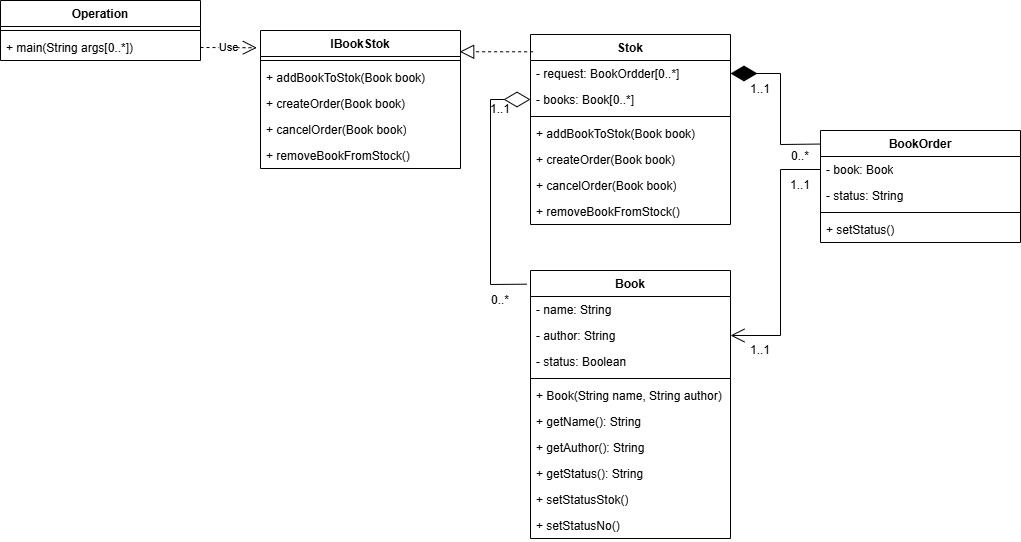
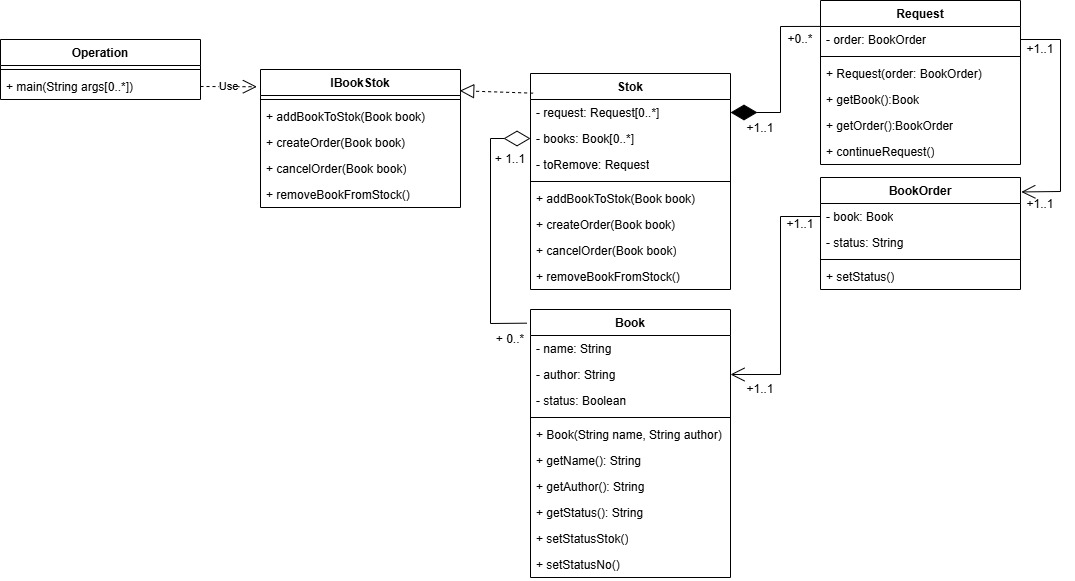
Добавление запросов в 4 задание

diff --git a/task-3/4/Stok.java b/task-3/4/Stok.java
@@ -2,33 +2,36 @@ import java.util.*;
 
 public class Stok implements  IBookStok {
     private List<Book> books = new ArrayList<>();
-    private List<BookOrder> request = new ArrayList<>();
-    
+    private List<Request> requests = new ArrayList<>();
+    private  Request toRemove = null;
     
     @Override
     public void addBookToStock(Book book) {
         books.add(book);
         book.setStatusStok();
+             
+        toRemove=null;
         
-        
-        List<BookOrder> toRemove = new ArrayList<>();
-        
-        for (BookOrder order : request) {
-            if (order.getBook().equals(book) && order.getStatus().equals("Новый")) {
-                order.setStatus("Выполнен");
+        for (Request request : requests) {
+            if (request.getBook().equals(book)) {
+                request.ContinueRequest();
                 removeBookFromStock(book);
-                System.out.println("Выдана книга по запросу: " + book.getName());
-                toRemove.add(order); 
+                toRemove = request; 
                 break;
             }
         }
-        
-        request.removeAll(toRemove);
+        if(toRemove != null) {  requests.remove(toRemove);}
+        else {
+            
+        }
     }
     
     @Override
     public void removeBookFromStock(Book book) {
-        book.setStatusNo();
+         books.remove(book);
+         if (!books.contains(book)) {
+             book.setStatusNo();
+         }
     }
     
     @Override
@@ -36,8 +39,9 @@ public class Stok implements  IBookStok {
         BookOrder order = new BookOrder(book);
         
         if (book.getStatus().equals("Отсутствует")) {
-            request.add(order);
-            System.out.println("Создан запрос на книгу: " + book.getName());
+            Request request = new Request(order);
+            requests.add(request);
+           
         } else {
             order.setStatus("Выполнен");
             System.out.println("Выдана книга: " + book.getName());
@@ -48,7 +52,7 @@ public class Stok implements  IBookStok {
     @Override
    public void cancelOrder(BookOrder order) {
         order.setStatus("Отменен");
-        request.remove(order); 
+        requests.removeIf(request -> request.getOrder().equals(order));
     }
     
 }

diff --git a/task-3/4/operation.java b/task-3/4/operation.java
@@ -4,16 +4,16 @@ public class Operation {
         
         Book book1 = new Book("Война и мир", "Л.Н.Толстой");
         Book book2 = new Book("Мастер и Маргарита", "М.А.Булгаков");
+        
         shop.addBookToStock(book1);
         shop.addBookToStock(book2);
+        shop.addBookToStock(book1);
         
-        shop.createOrder(book1);
-               
         shop.createOrder(book1); 
-         shop.createOrder(book1);
-          shop.createOrder(book1);
-         shop.addBookToStock(book1);
-         shop.removeBookFromStock(book2);
-         shop.createOrder(book2);
+        shop.createOrder(book1);
+        shop.createOrder(book1);
+        shop.addBookToStock(book1);
+        shop.removeBookFromStock(book2);
+        shop.createOrder(book2);
     }
 }

diff --git a/task-3/4/Request.java b/task-3/4/Request.java
@@ -1,0 +1,19 @@
+public class Request{
+    private final BookOrder order;
+
+    public Request(BookOrder order) {
+        this.order = order;
+         System.out.println("Создан запрос на книгу: " +  this.getBook().getName());
+    }
+    public Book getBook(){
+        return order.getBook();
+    }
+    public BookOrder getOrder(){
+        return order;
+    }
+    public void ContinueRequest(){
+        order.setStatus("Выполнен");
+        System.out.println("Выдана книга по запросу: " + this.getBook().getName());
+    }
+    
+}

diff --git a/task-3/2/Bye.java b/task-3/2/Bye.java
@@ -1,4 +1,4 @@
-class bye{
+class Bye{
     public static void main(String[] args) {
         Flower whiteRose = new WhiteRose();
         Flower redRose = new RedRose();
